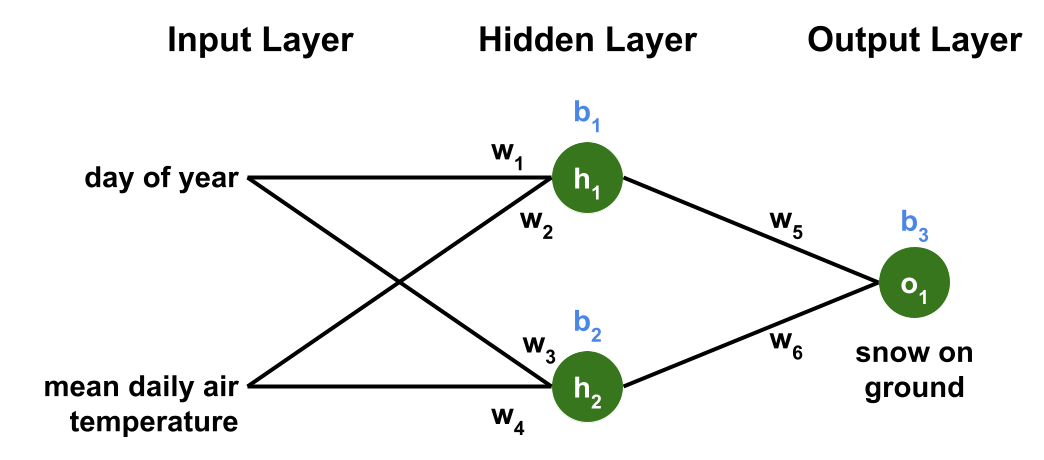
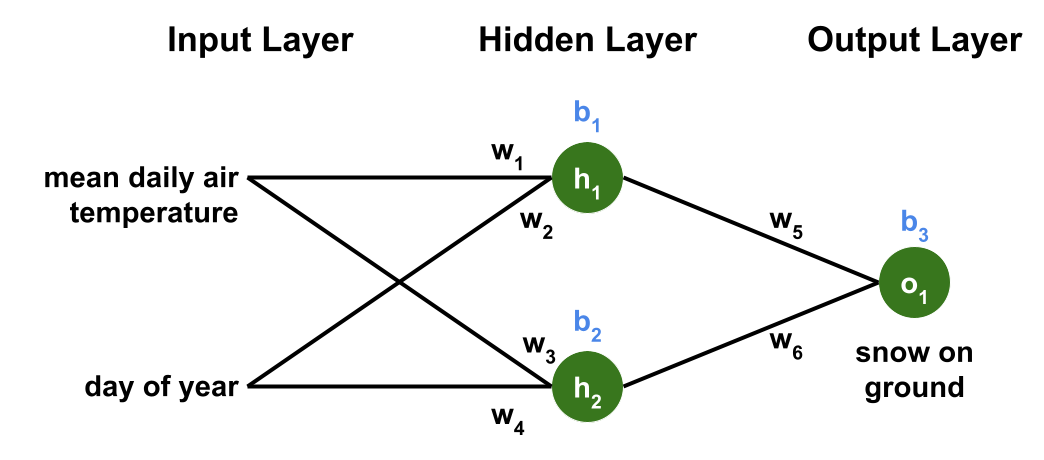
Updated schematic, fixed comments

Changed region(s): [[0.0307, 0.8217, 0.2452, 0.9435], [0.0307, 0.3652, 0.2452, 0.487]]

diff --git a/README.md b/README.md
@@ -6,6 +6,6 @@ The neural net tries to predict a binary variable (snow on ground is either `Tru
 
 Note that this notebook very closely follows a nice example outlined in [this Medium article](https://towardsdatascience.com/machine-learning-for-beginners-an-introduction-to-neural-networks-d49f22d238f9) but uses real data from a Snotel site in an effort to make the problem more closely related to the hydrologic sciences. 
 
-The network contains 2 input layers ('Day of Year' and 'Daily Mean Air Temperature'), 2 hidden layers (`h1` and `h2`), and a single output layer (`o1`, whether there is snow or not). Note that we're using the logistic sigmoid function as our activation function. So, the output of the neural network is a variable that is continuous on the interval (0,1). We turn this into a categorical variable by reclassifying output values between (0,5) as being _snow free_ and output values from [0.5,1.0) as being _snow covered_. The visualization of our neural network is as follows:
+The network contains 2 input layers ('Day of Year' and 'Daily Mean Air Temperature'), 2 hidden layers (`h1` and `h2`), and a single output layer (`o1`, whether there is snow or not). Note that we're using the logistic sigmoid function as our activation function. So, the output of the neural network is a variable that is continuous on the interval (0,1). We turn this into a categorical variable by reclassifying output values between (0,0.5) as being _snow free_ and output values from [0.5,1.0) as being _snow covered_. The visualization of our neural network is as follows:
 
 <img src='Neural Net Schematic.png' alt='Schematic of neural network' width='80%'/>
